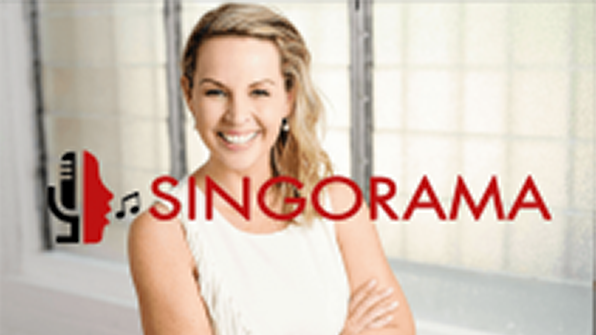
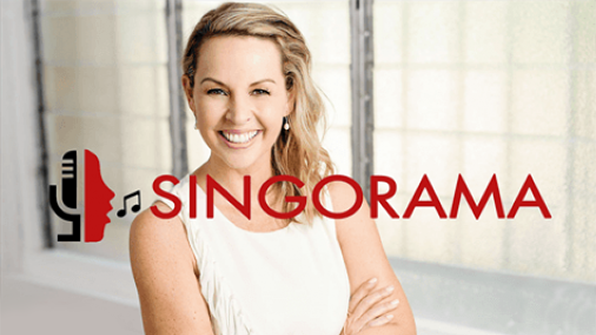
Completed background images for Singorama

diff --git a/src/app/components/singorama/styles/singorama.component.video-section.scss b/src/app/components/singorama/styles/singorama.component.video-section.scss
@@ -1,18 +1,60 @@
-.background-image {
+.video-section-container {
     margin-top: 70px;
-    background: url('/assets/singer-background.png');
     width: 100%;
     height: 575px;
-    background-position: 30%;
-    background-repeat: no-repeat;
     display: flex;
     padding: 10px 0;
-
-    
+    position: relative;
+    background: black;
 }
+
+.background-image {
+    width: 100%;
+    height: 100%;
+    background-position: 30%;
+    background-repeat: no-repeat;
+    position: absolute;
+    left: 0;
+    top: 0;
+    animation: fade 24s infinite;
+}
+
+.singer-background1 {
+    background-image: url('/assets/singer-background.png');
+    animation-delay: 0s;
+}
+
+.singer-background2 {
+    background-image: url('/assets/singer-background2.png');
+    animation-delay: 8s;
+}
+
+.singer-background3 {
+    background-image: url('/assets/singer-background3.png');
+    animation-delay: 16s;
+}
+
+@keyframes fade {
+    0% {
+      opacity: 1;
+    }
+    20% {
+      opacity: 1;
+    }
+    34% {
+      opacity: 0;
+    }
+    88% {
+      opacity: 0;
+    }
+    100% {
+      opacity: 1;
+    }
+  }
 
 .video-container {
     position: relative;
+
     img {
         border: 3px solid #bf1313;
         cursor: pointer;
@@ -50,6 +92,7 @@
     flex: 1;
     display: flex;
     margin-right: 20px;
+    z-index: 5;
 }
 
 .info-container {
@@ -103,7 +146,7 @@
         font-size: 11vw;
     }
 
-    .background-image {
+    .video-section-container {
         height: 93vw;
     }
 

diff --git a/src/app/components/singorama/singorama.component.html b/src/app/components/singorama/singorama.component.html
@@ -2,18 +2,24 @@
 
 <!-- Video Section -->
 <section>
-    <div class="background-image">
+    <div class="video-section-container">
+        <div class="background-image singer-background3"></div>
+        <div class="background-image singer-background2"></div>
+        <div class="background-image singer-background1"></div>
+
+
+        <!-- <div class="background-image"> -->
         <div class="left-flex-container"></div>
         <div class="right-flex-container">
             <div class="info-container">
                 <div class="heading">{{heading}}</div>
                 <div class="percent-off">75% OFF TODAY!</div>
-                
+
                 <div class="video-container" (click)="onVideoClick()">
                     <i class="fa-brands fa-youtube"></i>
                     <img src="assets/video-thumbnail.png" class="video-thumbnail">
                 </div>
-                
+
             </div>
         </div>
     </div>
@@ -127,7 +133,7 @@
 
 
 
-                <div class="learn-item">
+                <div class="learn-item" style="margin-bottom: 0;">
                     <i class="fa-solid fa-check"></i>
                     <div class="learn-item-text-container">
                         <span class="learn-item-subject">Advanced Larynx Amplifier</span><span> – These expert

diff --git a/src/app/components/singorama/styles/singorama.component.learn-section.scss b/src/app/components/singorama/styles/singorama.component.learn-section.scss
@@ -17,6 +17,36 @@
     display: flex;
     width: 100%;
     max-width: 700px;
+
+    &:nth-child(1) {
+        margin-left: 20px;
+    }
+
+    &:nth-child(2) {
+        margin-left: -50px;
+    }
+
+    &:nth-child(3) {
+        margin-left: -110px;
+    }
+
+    &:nth-child(5) {
+        margin-left: -70px;
+    }
+
+    &:nth-child(6) {
+        margin-left: -130px;
+    }
+
+    &:nth-child(7) {
+        margin-left: -160px;
+    }
+
+    &:nth-child(8) {
+        margin-left: -200px;
+    }
+
+    
 }
 
 .learn-item-text-container {
@@ -39,7 +69,7 @@
     display: flex;
     flex-direction: column;
     justify-content: space-between;
-    height: 890px;
+    height: 870px;
     align-items: center;
 }
 
@@ -80,6 +110,34 @@
 
     .learn-item {
         margin-bottom: 30px;
+
+        &:nth-child(1) {
+            margin-left: 0;
+        }
+    
+        &:nth-child(2) {
+            margin-left: 0;
+        }
+    
+        &:nth-child(3) {
+            margin-left: 0;
+        }
+    
+        &:nth-child(5) {
+            margin-left: 0;
+        }
+    
+        &:nth-child(6) {
+            margin-left: 0;
+        }
+    
+        &:nth-child(7) {
+            margin-left: 0;
+        }
+    
+        &:nth-child(8) {
+            margin-left: 0;
+        }
     }
 
 
